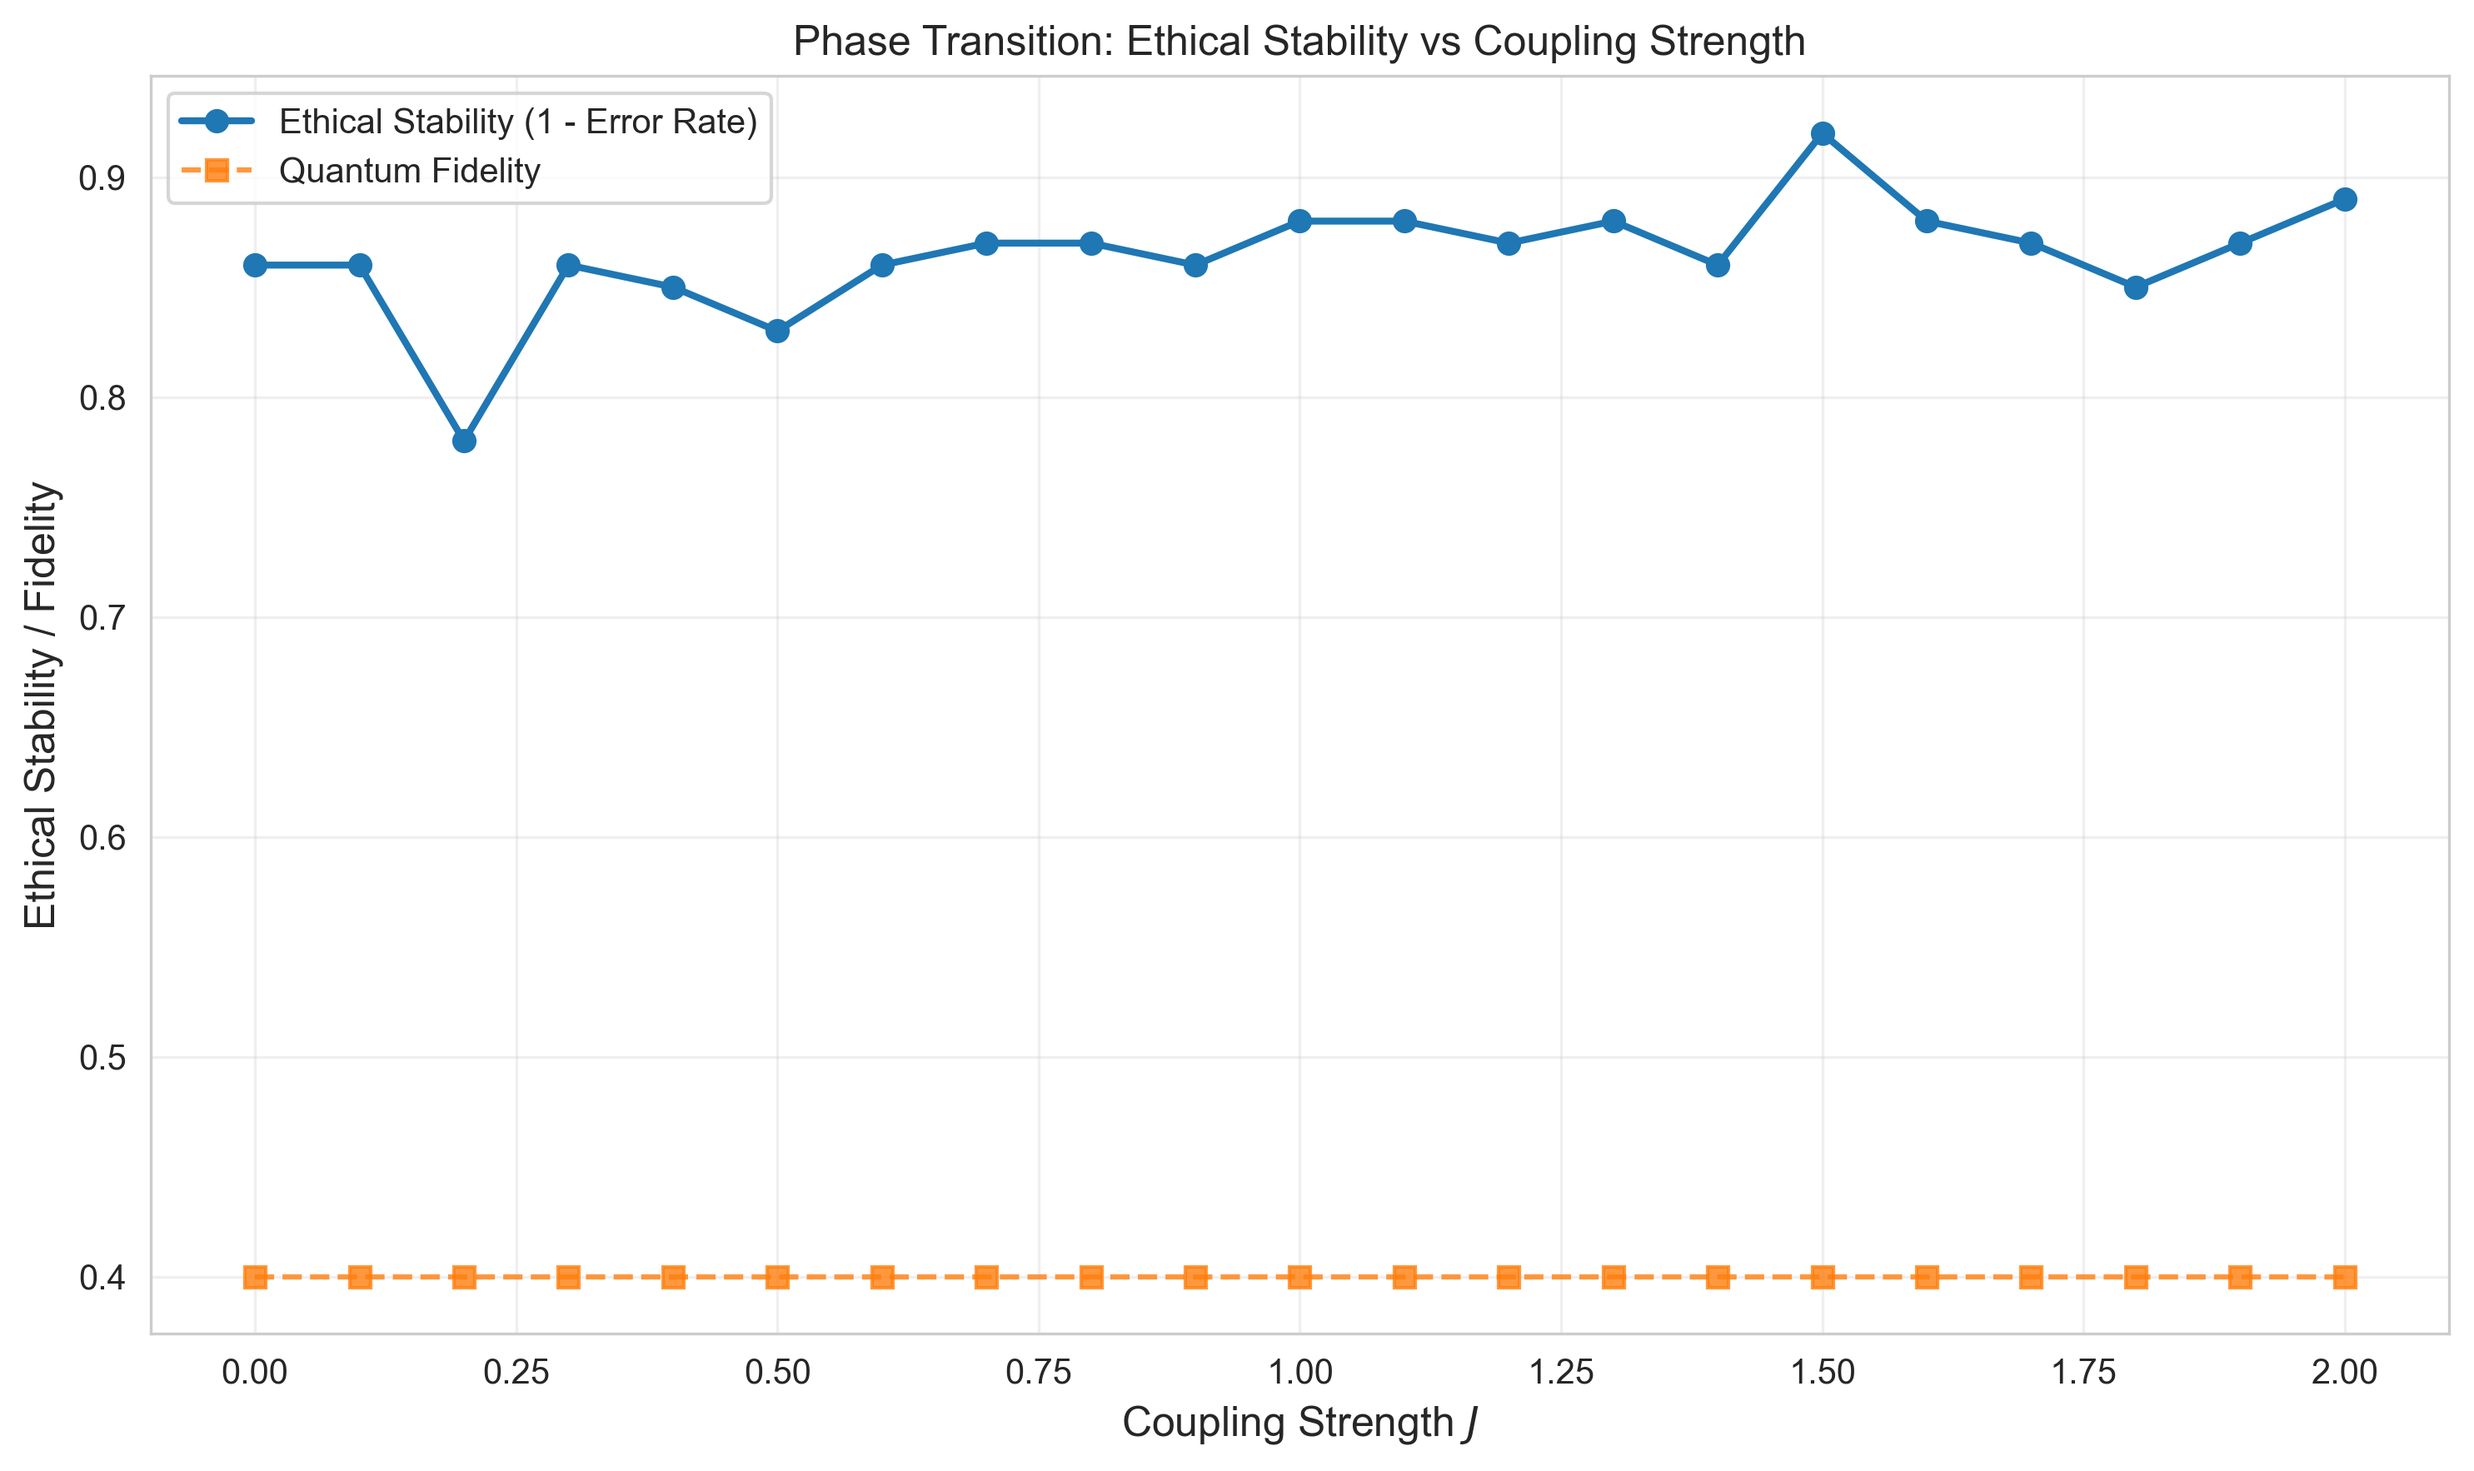
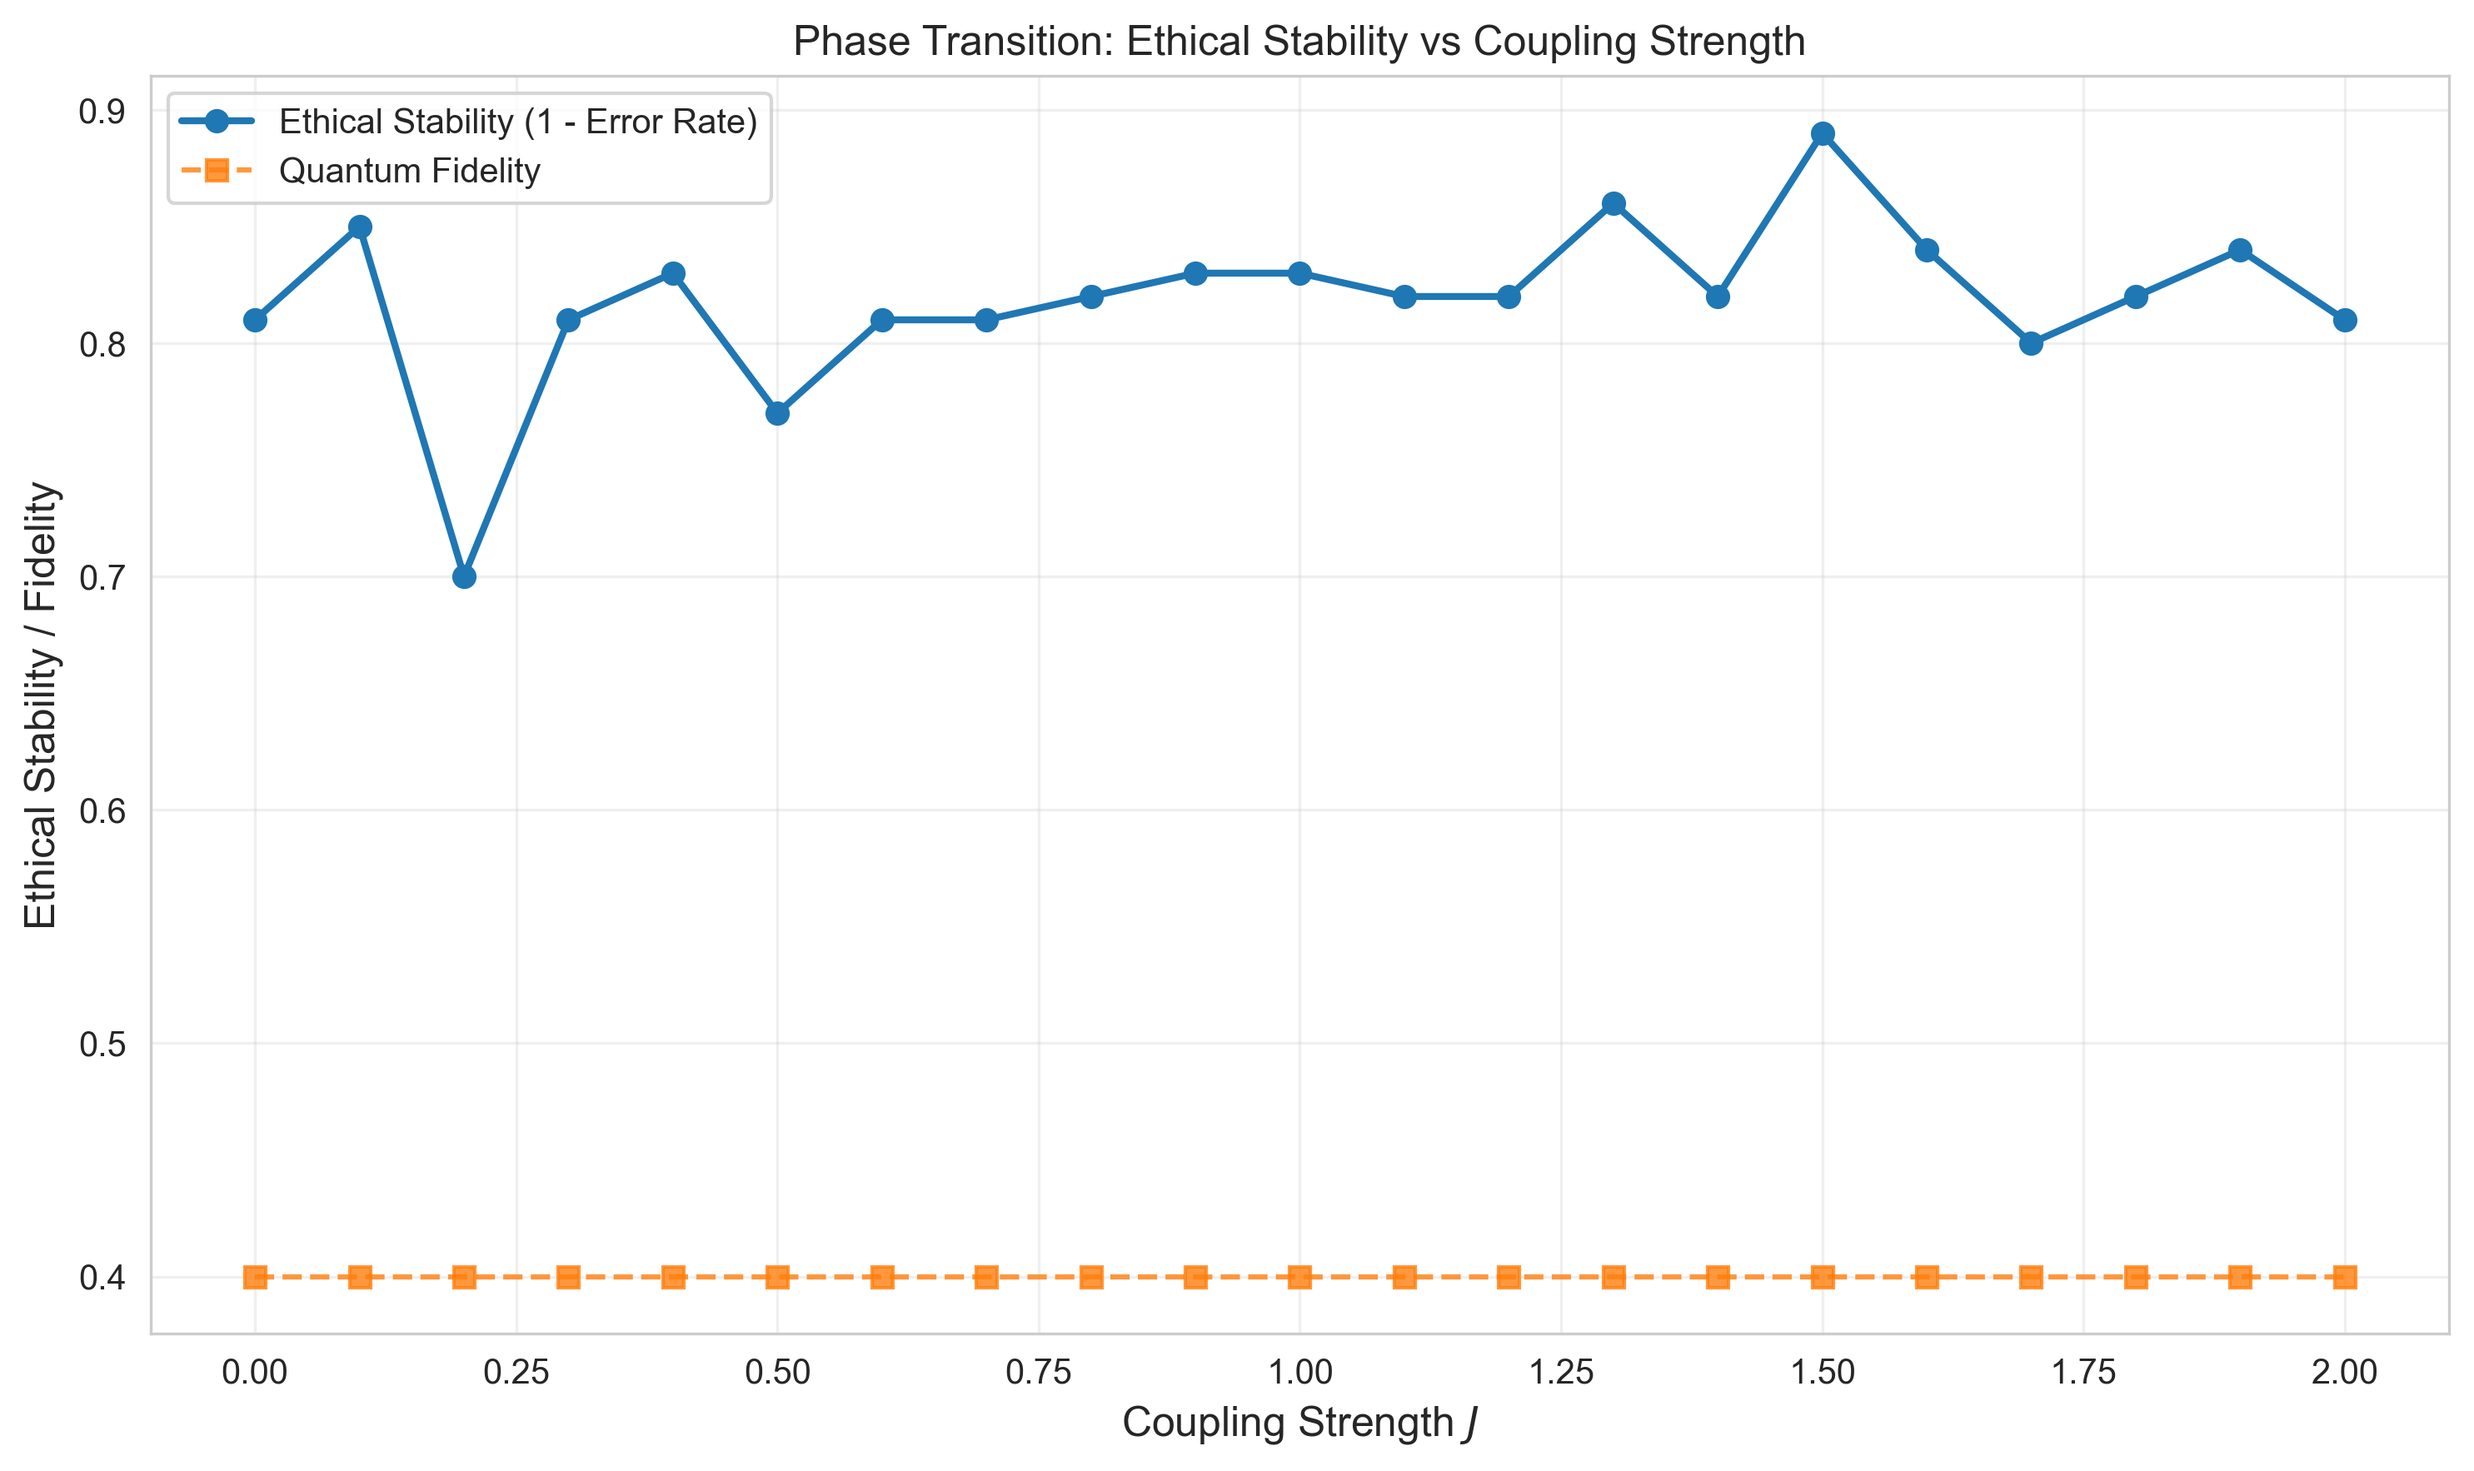
Use CSV ground-truth proxy in judge and CLI
Add support for a CSV-based GroundTruthProxy as a priority source of V: OracleDrivenJudge now accepts csv_proxy, uses it first (if action_id present) and falls back to the oracle; refactor _get_V and judge accordingly. CLI for run_phase_transition_exp.py gains --csv-proxy to load the proxy (with graceful warning on load failure) and passes it into OracleDrivenJudge; run metadata now records csv_proxy_path. Also update plan statuses to completed in erh_phase2_scientific_upgrade.plan.md and add a LaTeX figure include for the phase transition plot (simulation/output/figures_latex_code.tex).

diff --git a/erh_core/core/judgement_system.py b/erh_core/core/judgement_system.py
@@ -244,9 +244,8 @@ class OracleDrivenJudge(BaseJudge):
     """
     Judge that sets V(a) from HuggingFaceEthicalOracle before computing J(a).
 
-    Uses oracle.score(action.description) as ground truth V, then delegates
-    to an inner judge (e.g., BiasedJudge) for the actual judgment J.
-    E(x) = |J - V| where V comes from the oracle.
+    Supports GroundTruthProxy priority: if csv_proxy has action_id, use it;
+    else use oracle.score(action.description). E(x) = |J - V|.
 
     Parameters
     ----------
@@ -254,6 +253,9 @@ class OracleDrivenJudge(BaseJudge):
         Oracle that scores action text to produce V.
     inner_judge : BaseJudge, optional
         Judge to use after V is set. If None, returns V (perfect judge).
+    csv_proxy : Any, optional
+        GroundTruthProxy from load_from_csv. When provided, use it first
+        for actions it has; else fall back to oracle.
     name : str, optional
         Name for this judge
     """
@@ -262,17 +264,27 @@ class OracleDrivenJudge(BaseJudge):
         self,
         oracle: Any,
         inner_judge: Optional[BaseJudge] = None,
+        csv_proxy: Optional[Any] = None,
         name: str = "OracleDrivenJudge",
     ):
         super().__init__(name)
         self.oracle = oracle
         self.inner_judge = inner_judge
+        self.csv_proxy = csv_proxy
 
-    def judge(self, action: Action) -> float:
-        """Set V from oracle, then produce J via inner judge."""
+    def _get_V(self, action: Action) -> float:
+        """Get V from csv_proxy (if available) else oracle. Priority: CSV first."""
+        if self.csv_proxy is not None and hasattr(self.csv_proxy, "_data"):
+            if action.id in self.csv_proxy._data:
+                return self.csv_proxy.get_V(action)
         text = getattr(action, "description", None) or ""
         if text:
-            action.V = self.oracle.score(text)
+            return self.oracle.score(text)
+        return action.V
+
+    def judge(self, action: Action) -> float:
+        """Set V from csv_proxy or oracle, then produce J via inner judge."""
+        action.V = self._get_V(action)
         if self.inner_judge is not None:
             return self.inner_judge.judge(action)
         return action.V

diff --git a/scripts/run_phase_transition_exp.py b/scripts/run_phase_transition_exp.py
@@ -34,6 +34,11 @@ except ImportError:
     from simulation.core.judgement_system import BiasedJudge, evaluate_judgement
 
 try:
+    from simulation.core.judgement_system import GroundTruthProxy
+except ImportError:
+    GroundTruthProxy = None
+
+try:
     from erh_core.core.oracle import HuggingFaceEthicalOracle
     from erh_core.core.judgement_system import OracleDrivenJudge
     _ORACLE_AVAILABLE = True
@@ -102,6 +107,13 @@ def main() -> int:
         help="Use random V from generate_world instead of HuggingFace Oracle",
     )
     parser.add_argument(
+        "--csv-proxy",
+        type=str,
+        default=None,
+        metavar="PATH",
+        help="Path to CSV with action_id,V columns. When provided, use CSV first, Oracle as fallback.",
+    )
+    parser.add_argument(
         "--save-plot",
         action="store_true",
         help="Save phase_transition.png",
@@ -117,10 +129,20 @@ def main() -> int:
     rng = np.random.default_rng(args.seed)
 
     use_oracle = _ORACLE_AVAILABLE and not args.no_oracle
+    csv_proxy = None
+    if args.csv_proxy and GroundTruthProxy is not None:
+        try:
+            csv_proxy = GroundTruthProxy.load_from_csv(args.csv_proxy)
+        except Exception as e:
+            print(f"Warning: could not load CSV proxy from {args.csv_proxy}: {e}")
     if use_oracle:
         try:
             oracle = HuggingFaceEthicalOracle(cache_path=str(output_dir / "oracle_cache.json"))
-            judge = OracleDrivenJudge(oracle=oracle, inner_judge=BiasedJudge(bias_strength=0.2))
+            judge = OracleDrivenJudge(
+                oracle=oracle,
+                inner_judge=BiasedJudge(bias_strength=0.2),
+                csv_proxy=csv_proxy,
+            )
         except Exception:
             use_oracle = False
             judge = BiasedJudge(bias_strength=0.2)
@@ -186,6 +208,7 @@ def main() -> int:
         "J_range": [args.J_min, args.J_max],
         "n_points": args.n_points,
         "use_oracle": use_oracle,
+        "csv_proxy_path": args.csv_proxy,
     }
 
     out_path = output_dir / "phase_transition_results.json"

diff --git a/simulation/output/figures_latex_code.tex b/simulation/output/figures_latex_code.tex
@@ -42,3 +42,11 @@
   \caption{Distribution of action complexities in the generated moral action space.}
   \label{fig:fig6}
 \end{figure}
+
+% Phase transition figure (from run_phase_transition_exp.py)
+\begin{figure}[htbp]
+  \centering
+  \includegraphics[width=0.85\textwidth]{figures/phase_transition.png}
+  \caption{Phase transition: Ethical stability vs coupling strength $J$. Critical point $J_c$ marked.}
+  \label{fig:phase_transition}
+\end{figure}
